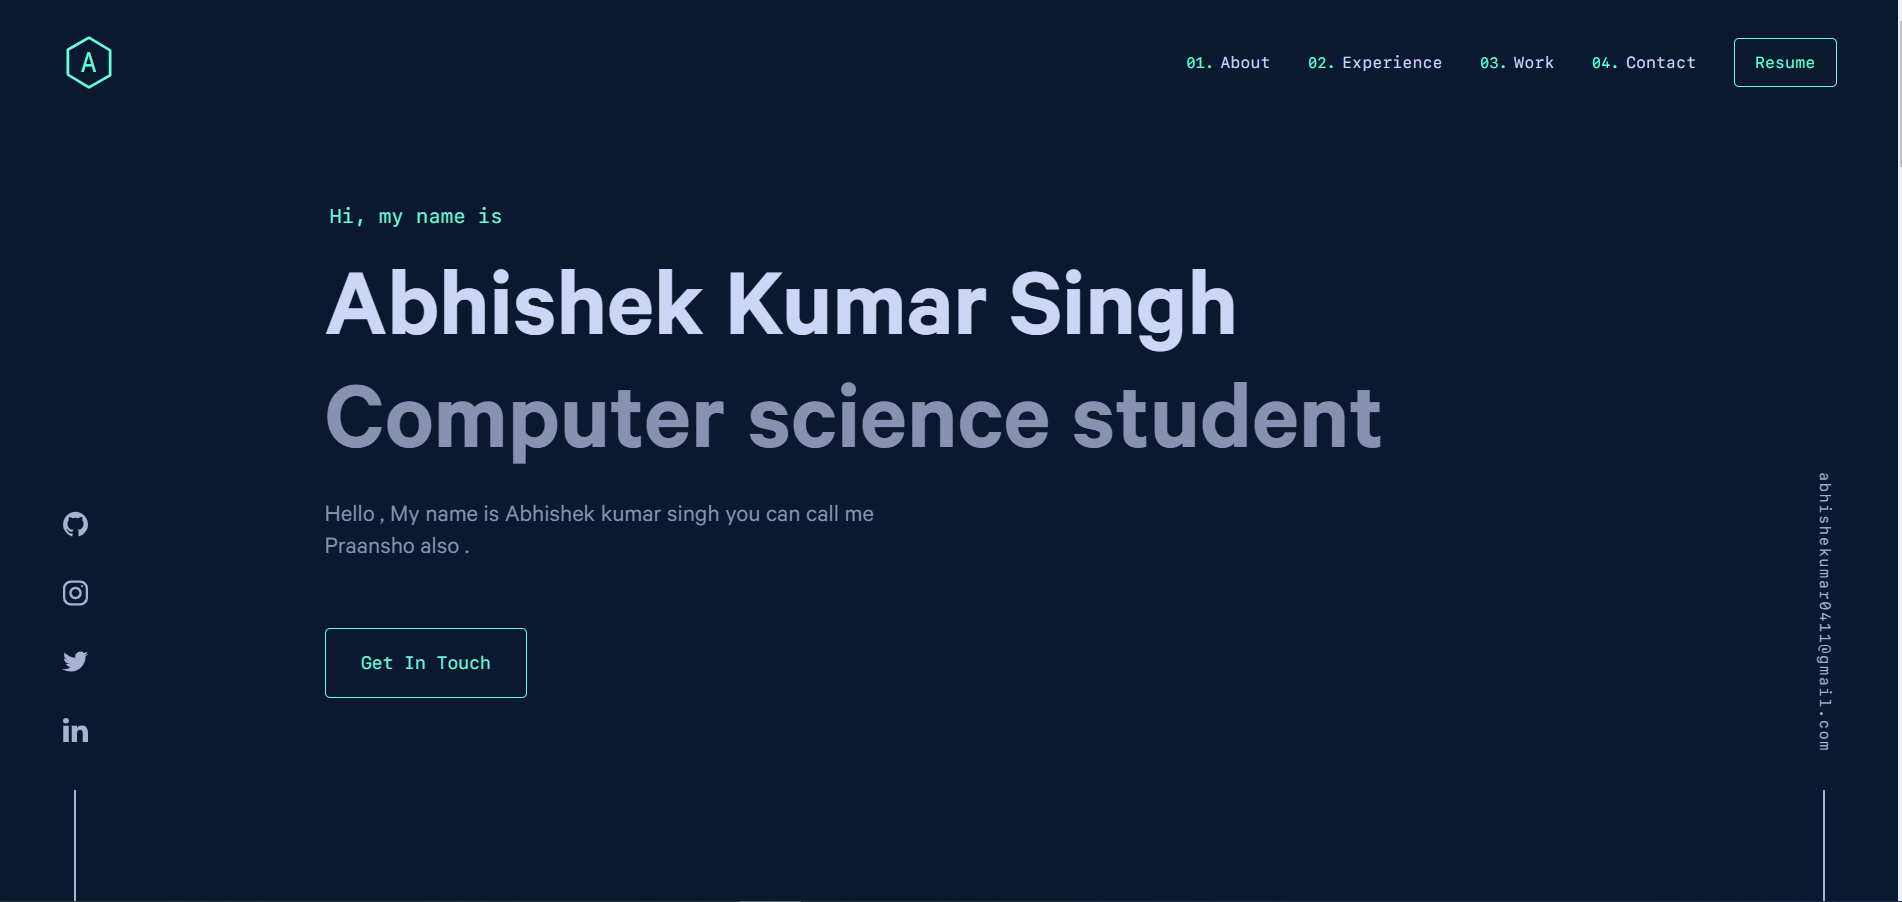
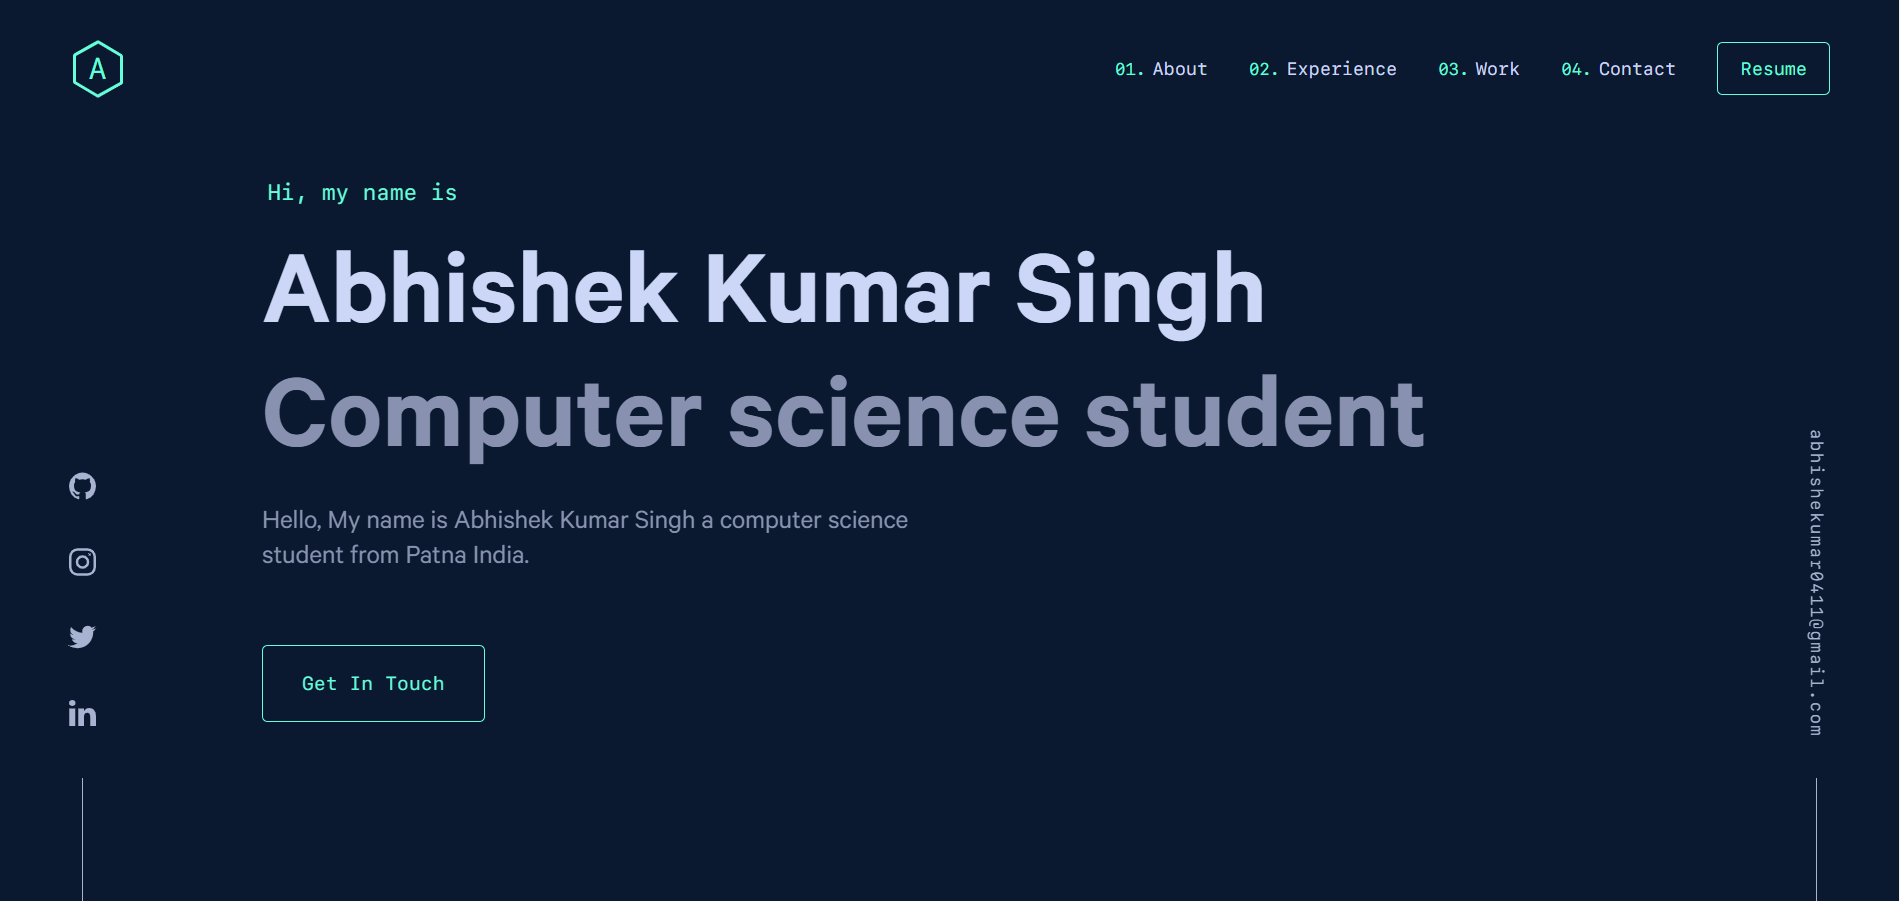
updated

diff --git a/src/components/sections/about.js b/src/components/sections/about.js
@@ -132,7 +132,7 @@ const About = () => {
     sr.reveal(revealContainer.current, srConfig());
   }, []);
 
-  const skills = ['C', 'C++','Python', 'HTML & (S)CSS' ];
+  const skills = ['C', 'C++', 'Python', 'HTML & (S)CSS'];
 
   return (
     <StyledAboutSection id="about" ref={revealContainer}>
@@ -143,12 +143,11 @@ const About = () => {
           <div>
             <p>Hello! I'm Abhishek, </p>
 
-            <p>
-              A computer science student from Patna, India.
-            </p>
+            <p>A computer science student.</p>
 
             <p>
-              Passionate reader.
+              Passionate reader, PC games and Cricket enthusiast. I love to Dance and exercise to
+              stay fit and healthy.
             </p>
 
             <p>Here are a few technologies I've been working with recently:</p>

diff --git a/src/components/sections/hero.js b/src/components/sections/hero.js
@@ -51,9 +51,7 @@ const Hero = () => {
   const two = <h2 className="big-heading">Abhishek Kumar Singh</h2>;
   const three = <h3 className="big-heading">Computer science student</h3>;
   const four = (
-    <p>
-      Hello , My name is Abhishek kumar singh you can call me Praansho also .
-    </p>
+    <p>Hello, My name is Abhishek Kumar Singh a computer science student from Patna India.</p>
   );
   const five = (
     <a href={`mailto:${email}`} className="email-link">
